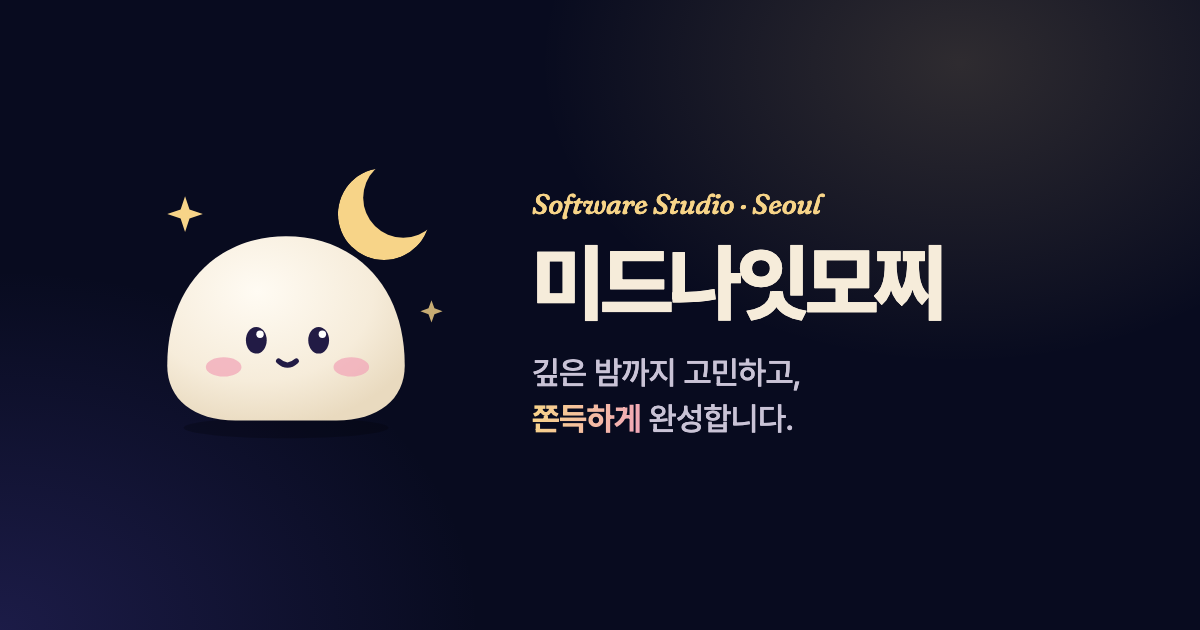
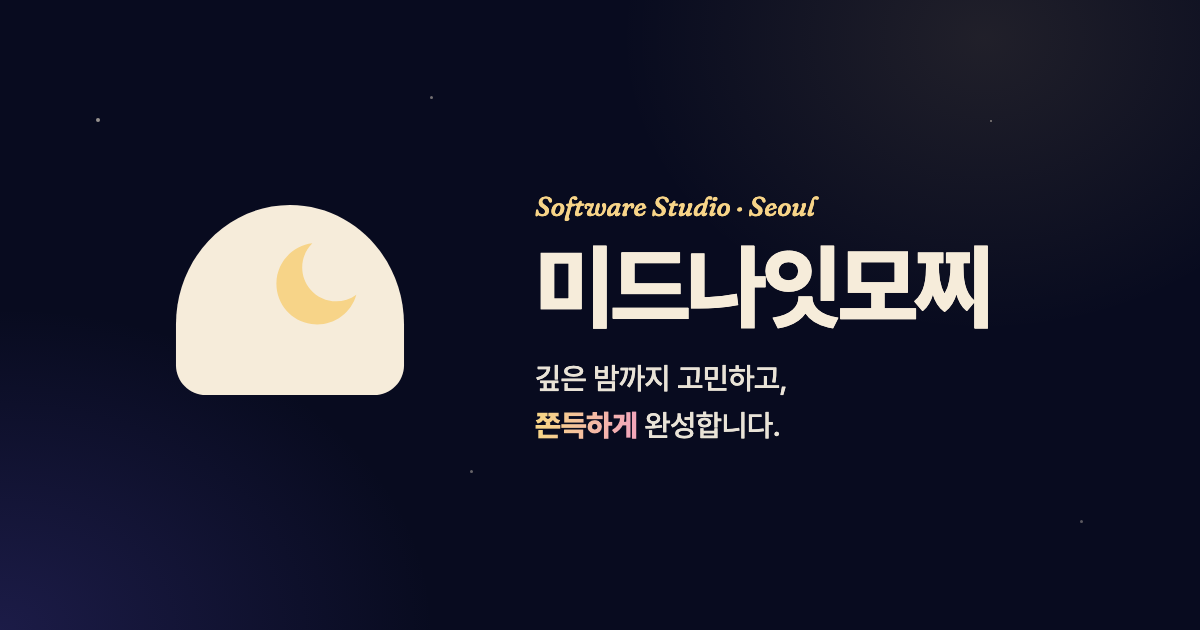
페이지 로고·공유 이미지를 새 회사 로고로 교체, 케어테이블 스크린샷 찌그러짐 수정
- logo.svg: 얼굴 있는 찹쌀떡 → 회사 로고 '달이 뜬 찹쌀떡' 어두운 바탕용
  (크림 떡 + 금색 초승달). 같은 512 정사각 틀이라 index.html 5곳은 그대로
- og.png: 같은 구성에서 왼쪽 그림만 새 로고로
- index.html: 전역 img 에 height: auto — CSS 로 폭만 줄인 스크린샷이
  HTML height(1213) 를 그대로 받아 세로로 2배 늘어나 글자가 찌그러지던 문제
- img/care-*.jpg: 앱스토어 원본(1290px)에서 840px 로 다시 만듦 (3배 화면 대응)
- CLAUDE.md·docs: 로고 설명과 스크린샷 규격(560→840px, height: auto 이유) 갱신

diff --git a/index.html b/index.html
@@ -56,7 +56,7 @@ body::before { /* 밤하늘의 빛 번짐 */
     radial-gradient(60vw 50vw at 50% 110%, rgba(242, 167, 184, .07), transparent 60%);
 }
 a { color: inherit; text-decoration: none; }
-img { display: block; max-width: 100%; }
+img { display: block; max-width: 100%; height: auto; }
 :focus-visible { outline: 2px solid var(--moon); outline-offset: 3px; border-radius: 6px; }
 .wrap { width: min(var(--max), 100% - 48px); margin-inline: auto; }
 

diff --git a/CLAUDE.md b/CLAUDE.md
@@ -8,10 +8,10 @@
 | 파일 | 내용 |
 |------|------|
 | `index.html` | 페이지 전체 (CSS·JS 인라인). 디자인 토큰은 `:root` 에 있다 |
-| `logo.svg` | 로고 마크 (투명 배경, 달을 올려다보는 찹쌀떡) |
-| `favicon.svg` | 회사 로고(달이 뜬 찹쌀떡)를 남색 둥근 사각형에 올린 파비콘 — `logo.svg` 와 다른 그림 |
+| `logo.svg` | 회사 로고 '달이 뜬 찹쌀떡' 어두운 바탕용 (투명 배경, 크림 떡 + 금색 초승달) — 페이지 안 5곳 |
+| `favicon.svg` | 같은 로고를 남색 둥근 사각형에 올린 파비콘 — 16px 대비 때문에 달만 금색 대신 창으로 뚫음 |
 | `og.png` | 링크 공유 미리보기 이미지 (1200×630) |
-| `img/` | 포트폴리오 스크린샷 (가로 560px JPG) |
+| `img/` | 포트폴리오 스크린샷 (가로 840px JPG — 표시 폭 약 250px 의 3배 화면 대응) |
 | `CNAME` | GitHub Pages 커스텀 도메인 `midnight-mochi.com` (DNS: AWS Route 53, 계정 프로필 `kcal-personal`) |
 
 ## 실행·배포
@@ -25,7 +25,7 @@
 1. **만든 것들**: `index.html` 의 `<!-- 새 프로젝트는 이 아래, 최신순으로 추가한다 -->` 바로 아래에 `<article class="card work reveal">` 를 복사해 넣는다.
    - 대표작만 `work feature`(가로 전체·스크린샷 2장). 나머지는 `work` 카드.
    - 상태 배지: `status live`(운영 중) / `status wip`(진행 중). 완료는 배지 없이 기간만 적는다.
-   - 스크린샷은 `sips -s format jpeg -s formatOptions 82 --resampleWidth 560 원본.png --out img/이름.jpg` 로 줄여 넣는다.
+   - 스크린샷은 `sips -s format jpeg -s formatOptions 85 --resampleWidth 840 원본.png --out img/이름.jpg` 로 줄여 넣는다. `<img>` 의 `width`·`height` 는 비율용 — 높이는 CSS `height: auto` 가 정한다.
 2. **걸어온 길**: `<!-- 새 연혁은 해당 연도 바로 아래 ... -->` 아래 `<ol class="timeline">` 의 해당 연도 `<li class="year">` 바로 다음에 최신순으로 넣는다. 새 해가 되면 `<li class="year">2027</li>` 를 맨 위에 추가.
 3. 사실은 근거가 있는 것만 쓴다: `../docs/미드나잇모찌_회사소개서.docx`, 각 프로젝트 레포의 git log·docs.
 

diff --git a/docs/DESIGN.md b/docs/DESIGN.md
@@ -24,10 +24,10 @@
 | 포트폴리오 | `<!-- 새 프로젝트는 이 아래, 최신순으로 추가한다 -->` 바로 아래 | `<article class="card work reveal">` (대표작만 `work feature`) |
 | 상태 배지 | `.tags` 안 | `status live`(운영 중) / `status wip`(진행 중) / 완료는 배지 없음 |
 | 연혁 | `<!-- 새 연혁은 해당 연도 바로 아래 … -->` 아래 해당 `<li class="year">` 다음 | `<li><time datetime="YYYY-MM-DD">MM.DD</time><p><b>…</b><span>…</span></p></li>` |
-| 스크린샷 | `img/` | `sips -s format jpeg -s formatOptions 82 --resampleWidth 560 원본.png --out img/이름.jpg` |
+| 스크린샷 | `img/` | `sips -s format jpeg -s formatOptions 85 --resampleWidth 840 원본.png --out img/이름.jpg` (케어테이블 원본: `../../kcal/marketing/appstore-screenshots/`) |
 
 ## 브랜드 자산
 
 - 회사 로고는 2026-10-30 확정한 **'달이 뜬 찹쌀떡'**(얼굴 없는 떡 실루엣 + 금색 초승달 창). 원본 SVG 는 상위 폴더 `../docs/로고/`.
 - `favicon.svg` 는 이 회사 로고를 남색 둥근 사각형 위에 올린 것이다. 크림 떡 위 금색 달은 16px 에서 대비가 약해 사라지므로, 파비콘에서만 달을 금색 대신 **창으로 뚫어**(evenodd) 남색 바탕이 비치게 했다.
-- `logo.svg`(페이지 안 얼굴 있는 찹쌀떡)는 아직 이전 일러스트다. 교체 여부는 사용자 결정 대기 — 임의로 바꾸지 않는다.
+- `logo.svg` 는 같은 로고의 어두운 바탕용(크림 떡 + 금색 달)을 512 정사각 틀에 넣은 것. 떡 아래 끝이 틀의 약 80% 라 히어로 squish 의 `transform-origin: 50% 80%` 와 맞는다. 2026-10-30 이전의 얼굴 있는 찹쌀떡 일러스트를 대체했다.

diff --git a/docs/CODE_STYLE.md b/docs/CODE_STYLE.md
@@ -8,7 +8,7 @@
 | 섹션은 `<section id="영문" class="wrap">` + `.sec-head` | `<section id="works" class="wrap">` |
 | 섹션 머리: 영문 이탤릭 `.kicker` + 한국어 `h2` | `<p class="kicker">Works</p><h2>만든 것들</h2>` |
 | 장식 이미지는 `alt=""`, 의미 있는 이미지는 한국어 alt | `<img src="logo.svg" alt="">`, `alt="케어테이블 진료 리포트 화면"` |
-| 이미지에 `width`·`height` 명시, 스크린샷은 `loading="lazy"` | `width="560" height="1213" loading="lazy"` |
+| 이미지에 `width`·`height` 명시(비율·자리 확보용), 스크린샷은 `loading="lazy"`. 실제 높이는 전역 `img { height: auto }` — 이걸 빼면 CSS 로 폭만 줄인 이미지가 세로로 늘어난다 | `width="560" height="1213" loading="lazy"` |
 | 외부 링크는 새 탭 + `rel="noopener"` | `target="_blank" rel="noopener"` |
 | 날짜는 `<time datetime>` | `<time datetime="2026-10-29">10.29</time>` |
 | 삽입 지점 주석은 한국어 | `<!-- 새 프로젝트는 이 아래, 최신순으로 추가한다 -->` |

diff --git a/docs/ARCHITECTURE.md b/docs/ARCHITECTURE.md
@@ -7,10 +7,10 @@
 ```
 midnightmochi-web/
 ├── index.html      페이지 전체: <head> 메타 + 인라인 <style> + 본문 + 인라인 <script>
-├── logo.svg        페이지 안 일러스트(달을 올려다보는 찹쌀떡) — 투명 배경
+├── logo.svg        회사 로고 어두운 바탕용(크림 떡 + 금색 초승달) — 투명 배경, 512 정사각 틀
 ├── favicon.svg     브라우저 탭 아이콘 — 남색 둥근 사각형 위 회사 로고
 ├── og.png          링크 공유 미리보기 (1200×630)
-├── img/            포트폴리오 스크린샷 (가로 560px JPG)
+├── img/            포트폴리오 스크린샷 (가로 840px JPG)
 ├── CNAME           커스텀 도메인 midnight-mochi.com
 └── .nojekyll       GitHub Pages 의 Jekyll 처리 끄기
 ```

diff --git a/docs/REVIEW.md b/docs/REVIEW.md
@@ -22,7 +22,7 @@ python3 -m http.server 8000   # http://localhost:8000 에서 확인
 | 공개 | 상세 주소·휴대폰·계약 문서·서명이 들어가지 않았는가 |
 | 스타일 | 색은 `:root` 토큰만, 클래스 변형 패턴(`.work.feature` 식)을 따랐는가 |
 | 접근성 | 장식 이미지 `alt=""`, 의미 있는 이미지에 한국어 alt, 포커스 링 유지, reduced-motion 에서 움직임 꺼짐 |
-| 성능 | 새 스크린샷을 가로 560px JPG 로 줄였는가 |
+| 성능 | 새 스크린샷을 가로 840px JPG 로 줄였는가 (더 작으면 3배 화면에서 흐려짐) |
 | 링크 | 외부 링크 `target="_blank" rel="noopener"`, 앵커(`#works` 등)가 실제 id 와 맞는가 |
 | 문서 | 파일·구조가 바뀌면 `CLAUDE.md` 파일 표와 `docs/` 를 같이 고쳤는가 |
 
